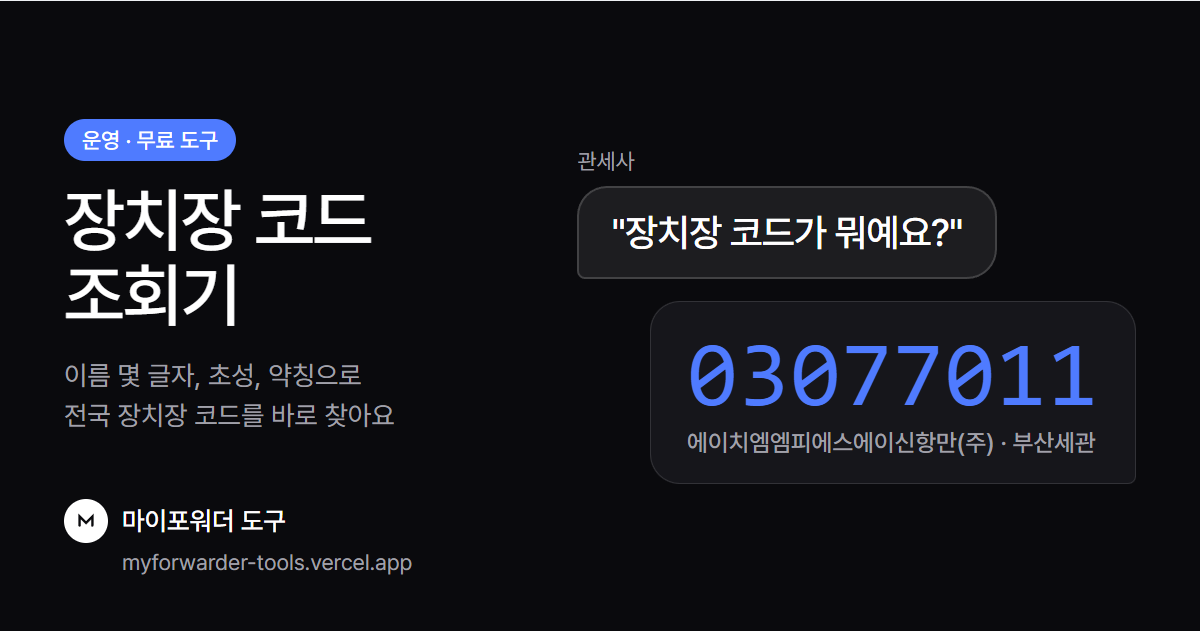
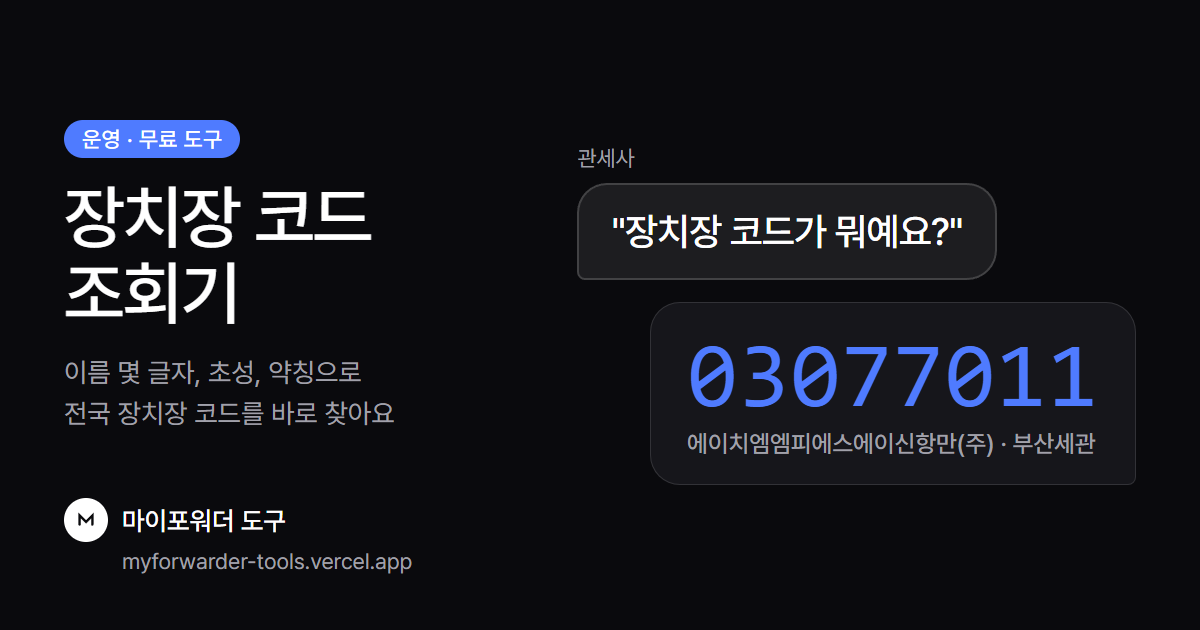
공유 이미지 스타일 확정·틀화: share-image 틀·만들기 스크립트, tools.json share, 가이드·CLAUDE.md 9번

diff --git a/scripts/share-image.html b/scripts/share-image.html
@@ -1,0 +1,93 @@
+<!doctype html>
+<html lang="ko">
+<head>
+<meta charset="utf-8">
+<title>공유 이미지 틀</title>
+<!-- 도구 공유 이미지(1200×630) 공통 틀. 사용: scripts/share-image.html?slug={slug}
+     문구는 tools.json의 share 칸에서, 색은 area(ops 코발트 / sales 라임)에서 정한다.
+     스타일 규칙: docs/share-image-guide.md · 이미지 만들기: npm run share-image -- {slug} -->
+<link rel="stylesheet" href="../design-tokens.css">
+<style>
+  * { box-sizing: border-box; margin: 0; }
+  html, body { width: 1200px; height: 630px; overflow: hidden; background: var(--bg-dark); word-break: keep-all; }
+  .art {
+    width: 1200px; height: 630px; padding: 56px 64px;
+    display: grid; grid-template-columns: 1fr 1.18fr; gap: 40px;
+    background: var(--bg-dark); color: var(--on-dark); font-family: var(--font-sans);
+  }
+  .left { display: grid; grid-template-rows: 1fr auto; }
+  .left .top { display: grid; gap: 22px; align-content: center; }
+  .tag { justify-self: start; display: inline-flex; padding: 8px 18px; border-radius: var(--radius-pill); background: var(--accent); color: var(--accent-ink); font-size: 22px; font-weight: 500; }
+  h1 { font-size: 70px; font-weight: 500; letter-spacing: -0.03em; line-height: 1.08; }
+  .sub { font-size: 27px; color: var(--on-dark-2); line-height: 1.5; }
+  .foot { display: grid; gap: 6px; }
+  .brand { display: flex; align-items: center; gap: 14px; font-size: 26px; font-weight: 500; }
+  .brand .m { width: 44px; height: 44px; border-radius: var(--radius-pill); background: var(--on-dark); color: var(--bg-dark); display: inline-flex; align-items: center; justify-content: center; }
+  .brand .m svg { width: 22px; height: 22px; }
+  .url { padding-left: 58px; font-size: 22px; color: var(--on-dark-2); }
+  .right { display: grid; gap: 22px; align-content: center; }
+  .who { font-size: 22px; color: var(--on-dark-2); margin-bottom: -10px; }
+  .bubble { justify-self: start; max-width: 100%; background: rgba(255,255,255,.08); border: 2px solid rgba(255,255,255,.16); border-radius: 30px 30px 30px 8px; padding: 22px 32px; font-size: 38px; font-weight: 500; letter-spacing: -0.02em; line-height: 1.3; }
+  .answer { justify-self: end; max-width: 100%; display: grid; gap: 8px; background: #16161b; border: 1px solid rgba(255,255,255,.12); border-radius: 30px 30px 8px 30px; padding: 26px 36px; }
+  .answer .value { font-family: var(--font-mono); font-size: 92px; line-height: 1; letter-spacing: 0.01em; color: var(--accent); white-space: nowrap; }
+  .answer .value.text { font-family: var(--font-sans); font-weight: 500; letter-spacing: -0.03em; }
+  .answer .note { font-size: 24px; font-weight: 500; color: var(--on-dark-2); }
+</style>
+</head>
+<body>
+  <div class="art" id="art">
+    <div class="left">
+      <div class="top">
+        <span class="tag" id="tag"></span>
+        <h1 id="title"></h1>
+        <p class="sub" id="sub"></p>
+      </div>
+      <div class="foot">
+        <span class="brand"><span class="m"><svg viewBox="0 0 24 24" fill="none" stroke="currentColor" stroke-width="2.6" stroke-linecap="round"><path d="M5 17V7l7 7 7-7v10"/></svg></span>마이포워더 도구</span>
+        <span class="url">myforwarder-tools.vercel.app</span>
+      </div>
+    </div>
+    <div class="right">
+      <p class="who" id="who"></p>
+      <p class="bubble" id="question"></p>
+      <div class="answer"><p class="value" id="value"></p><p class="note" id="note"></p></div>
+    </div>
+  </div>
+<script>
+(async () => {
+  const slug = new URLSearchParams(location.search).get('slug');
+  const tools = await (await fetch('../tools.json', { cache: 'no-cache' })).json();
+  const t = tools.find((x) => x.slug === slug);
+  if (!t || !t.share) { document.body.dataset.error = `tools.json에 ${slug}의 share 칸이 없어요`; return; }
+  const s = t.share;
+  const AREA = { ops: '운영', sales: '영업' };
+  document.body.dataset.area = t.area;
+  const setLines = (id, lines) => {
+    const el = document.getElementById(id);
+    (Array.isArray(lines) ? lines : [lines]).forEach((line, i) => {
+      if (i) el.appendChild(document.createElement('br'));
+      el.appendChild(document.createTextNode(line));
+    });
+  };
+  document.getElementById('tag').textContent = s.tag || `${AREA[t.area] || ''} · 무료 도구`;
+  setLines('title', s.title || t.name);
+  setLines('sub', s.sub || t.summary);
+  document.getElementById('who').textContent = s.who || '';
+  document.getElementById('question').textContent = s.question || '';
+  const value = document.getElementById('value');
+  value.textContent = s.answer || '';
+  if (s.answerStyle === 'text') value.classList.add('text');
+  document.getElementById('note').textContent = s.answerNote || '';
+  await document.fonts.ready;
+  // 넘치는 요소가 있으면 표시(만들기 스크립트가 확인)
+  const box = document.getElementById('art').getBoundingClientRect();
+  const over = [...document.querySelectorAll('#art *')].some((el) => { const r = el.getBoundingClientRect(); return r.right > box.right + 1 || r.bottom > box.bottom + 1; });
+  document.body.dataset.ready = over ? 'overflow' : 'ok';
+  // 질문은 한 줄이어야 스타일이 산다 — 두 줄 이상이면 경고
+  const q = document.getElementById('question');
+  const lines = Math.round((q.getBoundingClientRect().height - 44 - 4) / (parseFloat(getComputedStyle(q).lineHeight) || 49));
+  if (lines > 1) document.body.dataset.warn = `질문이 ${lines}줄이에요. 한 줄(약 16자)로 줄여 주세요`;
+})();
+</script>
+</body>
+</html>

diff --git a/docs/share-image-guide.md b/docs/share-image-guide.md
@@ -1,0 +1,73 @@
+# 공유 이미지 가이드 — 마이포워더 도구
+
+> 2026-10-19 확정(D01 장치장 코드 조회기 C″안). 모든 도구의 카카오톡·링크드인 공유 이미지를 이 스타일로 만든다.
+> 틀: `scripts/share-image.html` · 만들기: `npm run share-image -- {slug}` → `thumbs/{slug}-og.png`
+
+## 1. 왜 이 스타일인가
+
+- 피드와 대화방에서 **검정 바탕**이 가장 먼저 눈에 띈다.
+- 오른쪽의 **실무 질문 → 바로 나온 답** 장면이 "이거 내 얘기네"를 만든다. 무엇을 하는 도구인지 설명보다 장면으로 보여 준다.
+- 왼쪽은 **도구 이름과 한 줄 설명**만. 작은 미리보기에서도 이름이 읽힌다.
+- 모든 도구가 같은 배치라 "마이포워더 도구"라는 하나의 브랜드로 쌓인다.
+
+## 2. 고정 (도구마다 바꾸지 않는 것)
+
+| 요소 | 규칙 |
+|---|---|
+| 크기 | 1200×630 |
+| 바탕 | `--bg-dark` 검정 한 색. 그라데이션·사진·패턴 없음 |
+| 배치 | 왼쪽(태그 → 제목 2줄 → 한 줄 설명 2줄, 아래 브랜드·주소) / 오른쪽(누가 묻는지 → 질문 말풍선 → 답 카드) |
+| 글꼴 | Pretendard, 굵기 400·500. 답의 값만 모노 글꼴 |
+| 브랜드 | 흰 원 안 M 로고 + "마이포워더 도구" + `myforwarder-tools.vercel.app` |
+| 말풍선·카드 | 말풍선은 반투명 흰 면(왼쪽 아래 모서리만 좁게), 답 카드는 짙은 회색(오른쪽 아래 모서리만 좁게) |
+
+## 3. 영역에 따라 바뀌는 것 (색)
+
+`tools.json`의 `area`가 정한다. 직접 색을 고르지 않는다.
+
+| 영역 | 태그 바탕 | 답의 값 |
+|---|---|---|
+| 운영 `ops` | 코발트 `--accent-ops` | 코발트 |
+| 영업 `sales` | 라임 `--accent-sales`(글자는 짙은 녹색) | 라임 |
+
+색은 이 두 곳(태그·답의 값)에만 쓴다. 디자인 규칙의 "영역 태그"와 "다크 블록 위 큰 숫자"에 해당한다.
+
+## 4. 도구마다 쓰는 것 — `tools.json`의 `share`
+
+```json
+"share": {
+  "title": ["장치장 코드", "조회기"],
+  "sub": ["이름 몇 글자, 초성, 약칭으로", "전국 장치장 코드를 바로 찾아요"],
+  "who": "관세사",
+  "question": "\"장치장 코드가 뭐예요?\"",
+  "answer": "03077011",
+  "answerNote": "에이치엠엠피에스에이신항만(주) · 부산세관"
+}
+```
+
+| 칸 | 쓰는 법 |
+|---|---|
+| `title` | 도구 이름을 2줄로 나눠 배열로. 한 줄은 7자 안팎 |
+| `sub` | 한 줄 설명을 2줄로. 한 줄 16자 안팎, 해요체 |
+| `who` | 그 질문을 실제로 하는 사람(관세사, 화주, 팀장, 해외 파트너 등) |
+| `question` | 실무에서 실제로 듣는 한마디. **한 줄(약 16자)** — 넘으면 스크립트가 경고 |
+| `answer` | 도구가 내놓는 결과 하나. 코드·금액·날짜처럼 짧고 큰 값(10자 안팎). 글자 답이면 `"answerStyle": "text"` |
+| `answerNote` | 답을 설명하는 한 줄(이름·조건·출처) |
+| `tag` | 비우면 "운영 · 무료 도구"처럼 자동. 바꿀 때만 적는다 |
+
+## 5. 내용 규칙
+
+- **답은 실제 데이터에서 고른다.** 지어낸 값을 실제처럼 쓰지 않는다. 예시·가상 값이면 `answerNote`에 "(예시)"를 붙인다.
+- 개인정보·사내 정보(실제 고객사명, 실제 견적가)는 넣지 않는다.
+- 문구는 docs/voice-guide.md의 말투를 따른다.
+
+## 6. 만드는 순서
+
+1. `tools.json`에 `share` 칸을 쓴다.
+2. `npm run share-image -- {slug}` (처음 한 번은 `npm install`). 경고가 나오면 문구를 줄이고 다시 실행한다.
+3. `thumbs/{slug}-og.png`를 열어 확인한다. 카카오톡 크기(가로 300px)로 줄여도 제목과 답이 읽히는지 본다.
+4. 도구 HTML의 `<head>`에 공유 정보를 넣는다(D01 `tools/bonded-area-code.html` 참고): `og:title`, `og:description`, `og:url`, `og:image`(= `https://myforwarder-tools.vercel.app/thumbs/{slug}-og.png`), `og:image:width` 1200, `og:image:height` 630, `twitter:card` summary_large_image.
+
+## 7. 랜딩 카드 썸네일과의 관계
+
+랜딩 카드 썸네일(`thumbs/{slug}.png`, 16:10)은 흰 바탕에 도구의 핵심 결과를 크게 보여 주는 별도 장면이다(D01: HPNT 검색 → 03077011 카드). 공유 이미지와 같은 값(`answer`)을 쓰면 링크로 들어온 사람이 같은 장면을 다시 만나 흐름이 이어진다.

diff --git a/docs/progress.md b/docs/progress.md
@@ -4,6 +4,13 @@
 
 ---
 
+## 2026-10-19 · VS Code · 공유 이미지 스타일 확정·틀화
+
+- 완료한 일: 랜딩 카드 썸네일을 카드 크기에서도 읽히는 전용 장면(HPNT → 03077011)으로 교체. 공유 이미지 시안 A·B·C를 HTML 미리보기(raw/preview, 커밋 제외)로 보여 주고 C″안(C 배치 + 검은 바탕 + 왼쪽 도구 이름·한 줄 설명) 확정. 이를 공통 틀 scripts/share-image.html + scripts/make-share-image.mjs(npm run share-image -- {slug}, 이 PC Edge로 촬영, 자체 서버)로 만들고 tools.json `share` 칸에서 문구를 읽게 함. 영역별 색 자동(ops 코발트·sales 라임 — 가짜 영업 도구로 확인). 넘침·질문 두 줄 경고. docs/share-image-guide.md, CLAUDE.md 9번 규칙, tools-index-schema `share`, .vercelignore에 package 파일 추가. 검증 6/6
+- 결정한 것: 모든 도구 공유 이미지는 같은 배치·스타일, 색만 영역별. 질문은 한 줄(약 16자), 답은 실제 데이터
+- 막힌 것: 없음
+- 다음 할 일: GitHub 저장소 만들기(사용자) → push → Vercel 배포
+
 ## 2026-10-19 · VS Code · D01 배포 준비 완료
 
 - 완료한 일: tools.json status live(날짜 2026-10-19, 썸네일, history "배포" 덧붙임). PRD 메타(live·URL)와 콘텐츠 메모(막힌 곳·배운 것) 작성. 필터 이름 "구분(추정)". 썸네일 thumbs/bonded-area-code.png(16:10), 공유 이미지 bonded-area-code-og.png·site-og.png(1200×630), 두 페이지에 og 태그·canonical·M 파비콘. Vercel Web Analytics(배포 사이트에서만), LICENSE(코드 MIT·키트/문서 CC BY 4.0·데이터 출처 표시), README 재작성, .vercelignore(prd·docs·scripts·raw·CLAUDE.md·README 제외). 커밋 작성자 전체를 이준헌 <forwardingxai@gmail.com>으로 변경(날짜 유지). 랜딩에 도구 카드 표시 확인, 검증 6/6, 콘솔 오류 0

diff --git a/CLAUDE.md b/CLAUDE.md
@@ -15,7 +15,7 @@
 │   ├── components.css      Button · Tag · ToolCard · AreaCard · PromptStructureCard
 │   └── page.js             tools.json에서 하단 섹션(기능·과정·구조·관련) 렌더, 스크롤 리빌
 ├── data/{slug}.json        도구가 쓰는 정적 데이터 (있을 때만)
-├── thumbs/{slug}.png       카드 썸네일 16:10
+├── thumbs/{slug}.png       카드 썸네일 16:10 · thumbs/{slug}-og.png 공유 이미지 1200×630(docs/share-image-guide.md)
 ├── prd/{slug}.md           기획안 (PRD-template.md 양식)
 ├── kits/{slug}.md          공개 만들기 키트 (AI 코딩 도구용) + kits/{slug}.prompt.txt (Claude 채팅용 시작 프롬프트)
 └── docs/                   PRD-template.md, tools-index-schema.md, 디자인 시스템 README 사본
@@ -33,6 +33,7 @@
 6. `tools.json`에 항목을 추가/갱신한다(스키마 준수). `history`는 덧붙이기만.
 7. 완료 보고에 포함: 파일 목록, 검증 결과, 소요시간, 막힌 곳 한 줄(콘텐츠 메모용).
 8. "직접 만들어 보기" 키트를 함께 만든다: `kits/{slug}.prompt.txt`(채팅에 붙여넣으면 HTML 한 파일로 만들어지는 시작 프롬프트), `kits/{slug}.md`(데이터 얻는 법·규칙·단계별 프롬프트·완성 확인), 공개 가능한 데이터 내려받기, 응용 프롬프트 2~3개. `tools.json`의 `kit`에 연결한다.
+9. 공유 이미지는 D01에서 확정한 스타일(검정 바탕 · 왼쪽 도구 이름 · 오른쪽 실무 질문 → 답)로만 만든다. `tools.json`의 `share`를 쓰고 `npm run share-image -- {slug}`로 `thumbs/{slug}-og.png`를 만든 뒤, 도구 HTML에 og 태그를 넣는다. 색은 `area`가 정한다. 규칙 전문은 docs/share-image-guide.md.
 
 ## 디자인 규칙 (요약 — 전문은 docs/design-system-README.md)
 

diff --git a/docs/tools-index-schema.md b/docs/tools-index-schema.md
@@ -56,6 +56,7 @@
 | `history` | object[] | 시간순. `step`은 `기획 / 데이터 / 구현 / 수정 / 배포` 중 하나 |
 | `promptStructure` | object[] | 5~7개. `title`만 쓴다(2026-10-17부터 자물쇠·`open` 없음). 작업 프롬프트 전문은 저장소 밖(`prompts/`, 비공개)에 둔다 |
 | `kit` | object | 선택. 도구 페이지 "직접 만들어 보기" 섹션. `prompt`(Claude 채팅용 시작 프롬프트 .txt) · `guide`(AI 코딩 도구용 만들기 키트 .md) · `data`(`label`·`note`·`href` 내려받기 목록) · `ideas`(`title`·`prompt` 응용 프롬프트). 글 안의 `{{DATA_URL}}`은 `data` 중 첫 JSON의 실제 주소로 바뀐다. 키트는 공개용으로 새로 쓴 글이며 키·사내 데이터를 넣지 않는다 |
+| `share` | object | 공유 이미지(1200×630) 문구. `title`(2줄 배열) · `sub`(2줄 배열) · `who` · `question`(한 줄) · `answer`(짧은 큰 값) · `answerNote` · 선택 `tag`·`answerStyle`. `npm run share-image -- {slug}`가 `thumbs/{slug}-og.png`로 만든다. 규칙: docs/share-image-guide.md |
 | `toolsUsed` | string[] | 뱃지로 표시 |
 | `hours` | number | 기획+구현 합계. 숫자 밴드 "누적 절약 시간"의 근거는 따로 계산하지 않고 `hours`만 노출 |
 | `status` | `"draft"` \| `"live"` \| `"hold"` | `live`만 랜딩에 노출. `draft`는 인덱스에는 있되 숨김 |
